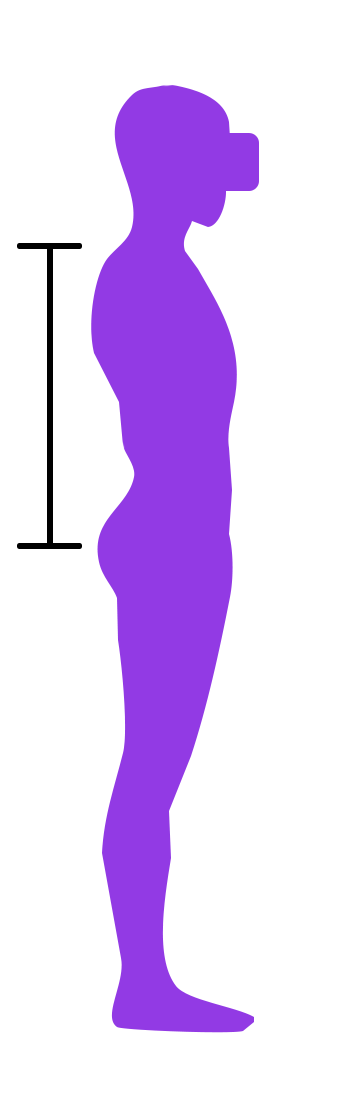
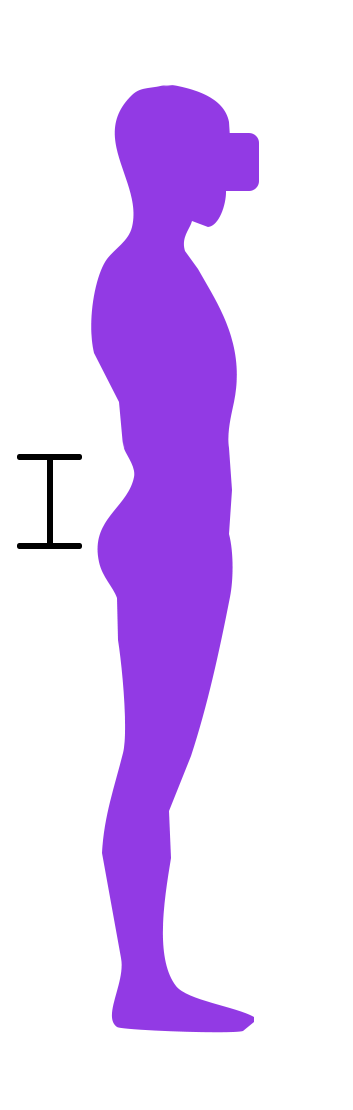
extensions lengths and new body config

Changed region(s): [[0.0623, 0.2144, 0.2181, 0.4288]]

diff --git a/body-config.md b/body-config.md
@@ -17,10 +17,12 @@ SlimeVR creates a virtual skeleton for applying data it receives from your track
          <img id="bpImage" src="assets/img/skeleton.png" alt="Body proportion image"/>
       </td>
       <td>
-         <div class="bp" id="chest">Chest</div>
-         <div class="bpdata" id="chest_data">The chest value is from the shoulders to around the midpoint of your torso.</div>
-         <div class="bp" id="waist">Waist</div>
-         <div class="bpdata" id="waist_data">The waist value is full torso length, from the shoulders to the pelvis.</div>
+         <div class="bp" id="torso">Torso Length</div>
+         <div class="bpdata" id="torso_data">The waist value is from your shoulders to your pelvis.</div>
+         <div class="bp" id="chest">Chest Distance</div>
+         <div class="bpdata" id="chest_data">The chest value is from the shoulders to around the midpoint of your torso (around the bottom of your sternum).</div>
+         <div class="bp" id="waist">Waist Distance</div>
+         <div class="bpdata" id="waist_data">The hip value is from the waist to the hip (on the pelvis).</div>
          <div class="bp" id="hw">Hips width</div>
          <div class="bpdata" id="hw_data">The hips width value is the distance between your femurs.</div>
          <div class="bp" id="legs">Legs length</div>
@@ -33,8 +35,8 @@ SlimeVR creates a virtual skeleton for applying data it receives from your track
          <div class="bpdata" id="ho_data">The head offset value is from your headset to about the middle of your head.</div>
          <div class="bp" id="nl">Neck length</div>
          <div class="bpdata" id="nl_data">The neck length value is from about the middle of your head to your shoulders.</div>
-         <div class="bp" id="vw">Virtual waist</div>
-         <div class="bpdata" id="vw_data"> The virtual waist value is the offset from the bottom of your torso to your pelvis.</div>
+         <div class="bp" id="offsets">Hip offset / Foot offset</div>
+         <div class="bpdata" id="offsets_data">These values offset your real hip from virtual one, if your avatar has non human or unusual proportions. A good example of this in use is avatars with digitigrade legs that don't have a flat foot.</div>
       </td>
    </tr>
 </table>

diff --git a/tracker-schematics.md b/tracker-schematics.md
@@ -35,7 +35,9 @@ parent: DIY trackers guide
 ## Cable layout recommendation for auxiliary tracker
 
 Note that while schematics show SDA and SCL running adjacent to each other, make sure that they are not physically adjacent
-when running in the auxiliary tracker cable. This is to avoid [crosstalk](https://www.i2cchip.com/i2c_connector.html#Crosstalk) and ensure stable operation of both trackers when cable length exceeds 30 centimeters.
+when running in the auxiliary tracker cable. This is to avoid [crosstalk](https://www.i2cchip.com/i2c_connector.html#Crosstalk) and ensure stable operation of both trackers when cable and allows the extension to safely reach more than 80cm.
+
+![Distance for each setup](assets/img/I2C_Wire_Length_Test.png)
 
 If you are using a ribbon cable or similar layout, use the following cable layout as a reference:
 
@@ -45,6 +47,6 @@ If you are using a twisted pair cable or similar layout, use the following cable
 
 ![Twisted pair cable I2C layout](assets/img/twisted_pair.png)
 
-*Code put together by Carl (<https://github.com/carl-anders>), with images made by Lune#0241 thanks to the help of the whole DIY community. Doc page integration by Emojikage#3095. Edited by CalliePepper#0666.*
+*Code put together by Carl (<https://github.com/carl-anders>), with images made by Lune#0241 thanks to the help of the whole DIY community. Doc page integration by Emojikage#3095. Edited by CalliePepper#0666. Thanks to Snapchat_Hotdog#6124 for the testing on the extension lengths.*
 
 <script src="assets/js/schematics.js"></script>

diff --git a/index.md b/index.md
@@ -6,7 +6,7 @@ nav_order: 1
 
 # SlimeVR Documentation
 
-Welcome to the SlimeVR documentation. This site covers how to [build your own SlimeVR trackers](making-tracker.md), [install or update existing tracker's firmware](upload-firmware-guide.md), [install and configure the SlimeVR Server](slimevr-setup.md), or [use your mobile phones as SlimeVR trackers](faq-owo.md).
+Welcome to the SlimeVR documentation. This site covers how to [build your own SlimeVR trackers](diy-trackers-guide.md), [install or update existing tracker's firmware](upload-firmware-guide.md), [install and configure the SlimeVR Server](slimevr-setup.md), or [use your mobile phones as SlimeVR trackers](faq-owo.md).
 
 > **Note:** You need at least 5 trackers (built boards or phones) for proper full body tracking. Alternatively, you can build a single tracker or use 1 phone/tablet for just waist tracking if you wish to test the tracking without investing in a full kit.
 

diff --git a/diy-trackers-guide.md b/diy-trackers-guide.md
@@ -30,7 +30,7 @@ An extension is a singular auxiliary IMU attached to a primary tracker and place
 
 *Example extension build by Rames The Generic#3540*
 
-Due to issues with the extension's cord length we recommend the extension being no further than 45cm from your primary tracker. 
+The length of the extension is dependant on what kind of cabling you use to connect them (shorter than 80cm is a safe range). For more information please [check the tracker schematics page.](tracker-schematics.md)
 
 The suggested extension locations are:
 
